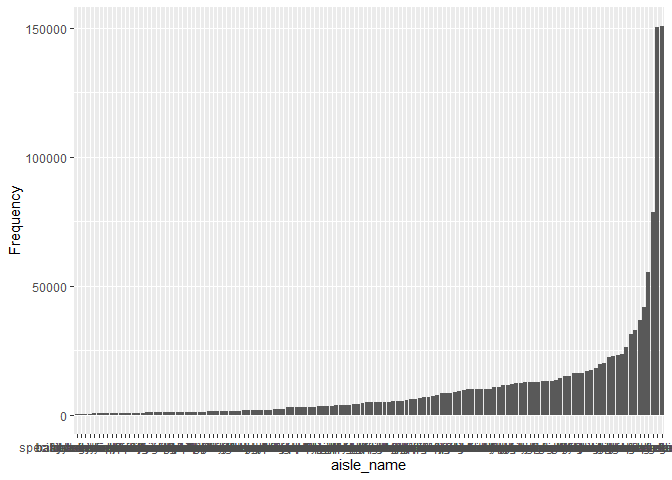
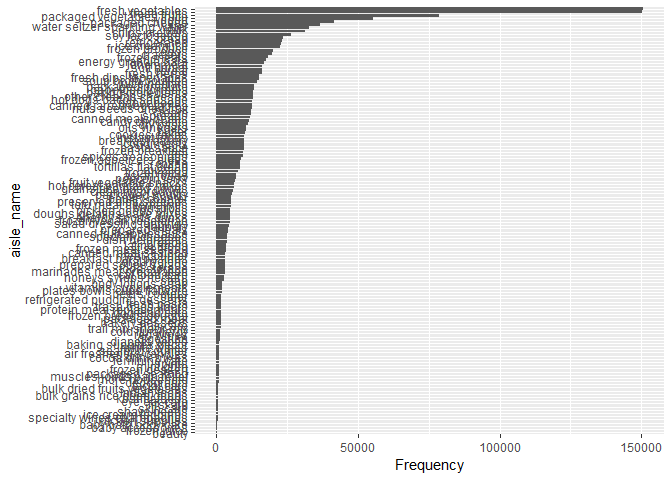
Use group_by function to create table which indicate the most popular item in three aisles.

Changed region(s): [[0.0, 0.0, 1.0, 1.0], [0.3125, 0.0, 0.9688, 0.8125]]

diff --git a/p8105_hw3_yy2926.md b/p8105_hw3_yy2926.md
@@ -123,11 +123,30 @@ aisle_order <- data.frame("aisle_id"= aisle_information$aisle_id, "aisle_name" =
 aisle_order <- aisle_order[order(aisle_order$Frequency),]
 aisle_order$aisle_name <- as.factor(aisle_order$aisle_name)
 aisle_order$aisle_name = factor(aisle_order$aisle_name,aisle_order$aisle_name)
-ggplot(aisle_order)+geom_bar(stat="identity",aes(x=aisle_name,y=Frequency))
+ggplot(aisle_order)+geom_bar(stat="identity",aes(x=aisle_name,y=Frequency))+coord_flip()
 ```
 
 ![](p8105_hw3_yy2926_files/figure-markdown_github/Question2.2-1.png)
 
 \*\*\* Q3:Make a table showing the most popular item in each of the aisles “baking ingredients”, “dog food care”, and “packaged vegetables fruits”.
+
+``` r
+aisle_popular <- subset(instacart_data,aisle =="baking ingredients"| aisle == "dog food care" | aisle == "packaged vegetables fruits")
+aisle_popular %>%
+group_by(aisle,product_name) %>%
+count(product_name) %>%
+group_by(aisle) %>%
+filter(n==max(n))
+```
+
+    ## # A tibble: 3 x 3
+    ## # Groups:   aisle [3]
+    ##   aisle                    product_name                                  n
+    ##   <chr>                    <chr>                                     <int>
+    ## 1 baking ingredients       Light Brown Sugar                           499
+    ## 2 dog food care            Snack Sticks Chicken & Rice Recipe Dog T~    30
+    ## 3 packaged vegetables fru~ Organic Baby Spinach                       9784
+
+\*\*\* A3: We can observe taht three most popular item in baking ingredients, dog food care, packaged vegetables fruits ailes are Ligtht Brown Sugar, Snack Sticks CHicken & Rice Recipe Dog Treats.
 
 \*\*\* Q4:Make a table showing the mean hour of the day at which Pink Lady Apples and Coffee Ice Cream are ordered on each day of the week; format this table for human readers (i.e. produce a 2 x 7 table).
